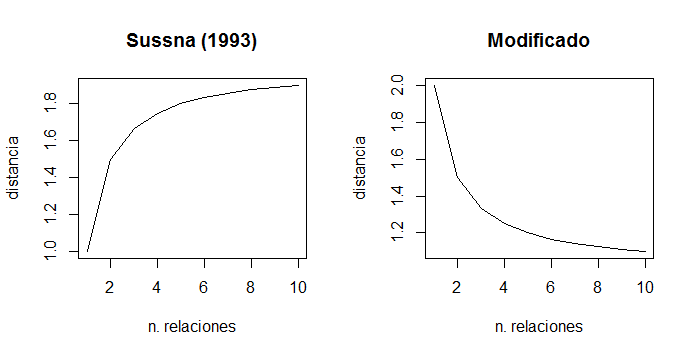
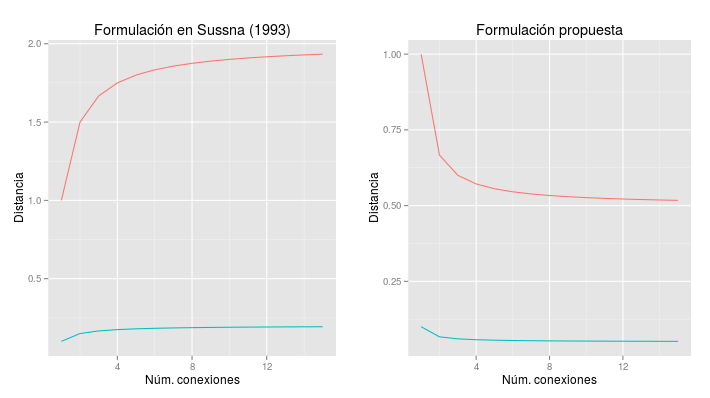
planteando modelo

diff --git a/doc/conf.py b/doc/conf.py
@@ -49,7 +49,7 @@ source_suffix = '.rst'
 
 # The master toctree document.
 master_doc = 'index'
-latex_appendices = ['appendix-data']
+#latex_appendices = ['appendix-data']
 
 # General information about the project.
 project = u'Medida de distancia en grafos UNL'

diff --git a/doc/4.model/i.recursos.rst b/doc/4.model/i.recursos.rst
@@ -3,19 +3,30 @@
 Recursos utilizados
 ===================
 El modelo propuesto se apoya en varios recursos, algoritmos y librerías desarrollados por
-otras personas, nosotros las combinamos y añadimos nuestra pequeña aportación para poder
-calcular la medida de similaridad.
+otras personas, nosotros las combinamos y añadimos nuestra aportación para poder
+calcular la medida que nos interesa.
 
 El autor ha podido utilizar algunos de los recursos tal cual estaban disponibles, pero en otros
 ha colaborado en su desarrollo o transcripción al lenguaje de programación seleccionado, se
 indicará en cada caso las contribuciones realizadas.
 
+
 WordNet 3.1
 -----------
+En la exposición del estado del arte hemos descrito sucintamente la base de datos WordNet y
+sus características (ver :num:`sección #wordnet`), no lo repetiremos aquí. Para este
+trabajo hemos utilizado el diccionario correspondiente a la versión 3.1.
 
 
 SemCor
 ------
+El corpus SemCor es el único recurso etiquetado con WordNet que hemos encontrado; su 
+utilización es imprescindible para poder hacer uso de medidas de distancia que tienen
+en cuenta el contenido de información
+(ver :num:`sección #redes-conceptos-contenido-informacion`). Sin embargo no hemos
+considerado cómo de representativo es este corpus para los el dominio de información
+en el que vamos a experimentar, los resultados de algunas medidas de distancia pueden
+verse profundamente afectados por esta circunstancia.
 
 
 WordNet-blast
@@ -45,14 +56,17 @@ WordNet. Nosotros hemos implementado las siguientes utilizando el lenguaje C++:
  * Lin (1998) :cite:`Lin1998`.
  * Resnik (1995) :cite:`Resnik1995`.
  
- * Sussna (1993) :cite:`Sussna1993`: en la :num:`sección #redes-conceptos-estructura` mostramos la formulación
-   que aparece en la bibliografía para el cálculo del peso de las conexiones entre los 
-   conceptos. Según Sussna este peso, que representa la distancia semántica, debe ser menor
-   cuanto mayor sea el número de conexiones del mismo tipo que parten de cada nodo; sin embargo
-   la formulación proporcionada no se comporta según lo pretendido.
+ * Sussna (1993) :cite:`Sussna1993`: en la :num:`sección #redes-conceptos-estructura
+   mostramos la formulación que aparece en la bibliografía para el cálculo del peso
+   de las conexiones entre los conceptos.
+   Según Sussna, este peso, que representa la distancia semántica, debe ser menor
+   cuanto mayor sea el número de conexiones del mismo tipo que parten de cada nodo; a pesar
+   de que en el texto del artículo de 1993 se expresa claramente que *"the two inverse
+   weights for an edge are averaged"* tanto en la formulación presente en dicho artículo
+   como en la literatura posterior no se tiene en cuenta este punto.
    
-   En nuestro modelo hemos implementado el comportamiento que creemos que debería ser el
-   correcto [#]_: a medida que el número de relaciones aumenta, la distancia semántica se 
+   En nuestro modelo hemos implementado la formulación que debería ser la
+   correcta [#]_: a medida que el número de relaciones aumenta, la distancia semántica se 
    hace más pequeña (ver :num:`figura #fig-sussna-fail`).
    
  * Wu y Palmer :cite:`Wu1994`.
@@ -63,9 +77,11 @@ WordNet. Nosotros hemos implementado las siguientes utilizando el lenguaje C++:
 .. figure:: ../img/sussnafail.png
    :name: fig-sussna-fail
 
-   Variación de la distancia asociada a una conexión en función del número relaciones entre los
-   elementos (mismo número en cada sentido). A la izquierda los resultados según la formulación de
-   Sussna, a la derecha los resultados según la modificación propuesta.
+   Variación de la distancia asociada a una conexión en función del número relaciones
+   entre los elementos. A la izquierda los resultados según la formulación de
+   Sussna, a la derecha los resultados según la modificación propuesta. La línea roja
+   muestra la variación de la distancia cuando el concepto está en el primer nivel de
+   profundidad de la jerarquía y la azul cuando está a una profundidad de 10.
    
  
 Todas estas medidas pueden ser intercambiadas en nuestro modelo obteniéndose diferentes valores
@@ -75,7 +91,7 @@ verificar cuál es la más adecuada para nuestro algoritmo.
 Al programar todas las medidas de distancia anteriores se han tenido en cuenta los siguientes
 puntos:
 
- * Todas utilizan la jerarquía de WordNet 3.1 construida con ```wordnet-blast``` haciendo uso
+ * Todas utilizan la jerarquía de WordNet 3.1 construida con ``wordnet-blast`` haciendo uso
    únicamente de las relaciones de hiponimia/hiperonima.
 
  * A las medidas basadas en el contenido de información que necesitaban de un *corpus* se les
@@ -89,7 +105,7 @@ puntos:
 Distancia y jerarquía entre relaciones UNL
 ------------------------------------------
 En la bibliografía no hemos encontrado ningún documento acerca de la distancia semántica entre
-relaciones UNL, así es que tenemos que proponer una. Para ello planteamos un modelo muy simple
+relaciones UNL, por lo que debemos proponer una. Para ello planteamos un modelo muy simple
 basado en la jerarquía de relaciones que aparece en UNLWeb [#]_.
 
 .. [#] UNL Wiki. Universal Relations. http://www.unlweb.net/wiki/Universal_Relations 
@@ -97,107 +113,66 @@ basado en la jerarquía de relaciones que aparece en UNLWeb [#]_.
    
 Proponemos un modelo según el cual dos relaciones son iguales si pertenecen a la misma
 tipología de primer nivel (agt, and, aoj,...) y distintas en caso contrario (ver
-:num:`figura #fig-unl-relations`).
+:num:`tabla #table-unl-relations`), así, sean dos relaciones :math:`r_1` y :math:`r_2`,
+se verifican las siguientes relaciones:
 
-.. _fig-unl-relations:
-.. graphviz::
-   :caption: Jerarquía de relaciones UNL propuesta en UNLWeb.
+ * :math:`d(r_1, r_2) = 0 \iff r_1 \equiv r_2`
+ * :math:`d(r_1, r_2) = 0.2` si :math:`r_1` y :math:`r_2` tienen un padre común.
+ * :math:`d(r_1, r_2) = 0.8` en cualquier otro caso.
+ 
+Como se puede observar, la máxima distancia entre dos relaciones es ``0.8``, se
+considera así que la mera existencia de una relación entre dos mismos conceptos
+indica un grado mínimo de similaridad.
 
-   digraph foo {
-        rankdir=LR
-        node [shape=box]
-        
-        r[label="rel\n[relation]"]
-        
-        n01[label="agt\n[agent]"]
-        n02[label="and\n[conjunction]"]
-        n03[label="aoj\n[object of an attribute]"]
-            n03_m01[label="ant\n[antyonym, different form]"]
-            n03_m02[label="equ\n[synonym, equal to]"]
-            n03_m03[label="fld\n[field]"]
-            n03_m04[label="icl\n[hyponym, a kind of]"]
-            n03_m05[label="iof\n[example, instance of]"]
-            n03_m06[label="pof\n[meronym, part of]"]
-            
-        n04[label="ben\n[beneficiary]"]
-        n05[label="cnt\n[content or theme]"]
-        n06[label="con\n[condition]"]
-        n07[label="exp\n[experiencer]"]
-        n08[label="mod\n[modifier]"]
-            n08_m01[label="mat\n[material]"]
-            n08_m02[label="nam\n[name]"]
-            n08_m03[label="pos\n[possessor]"]
-            n08_m04[label="qua\n[quantifier]"]
+.. _table-unl-relations:
+.. table:: Jerarquía de relaciones UNL según UNLWeb.
+   :class: longtable
+   
+   +------------------------------------------------------------------------+
+   | | **agt**: agent                                                       |
+   | | **and**: conjuntion                                                  |
+   | | **aoj**: object of an attribute                                      |
+   | |   **ant**: antonym, different from                                   |
+   | |   **equ**: synonym, equal to                                         |
+   | |   **fld**: field                                                     |
+   | |   **icl**: hyponym, a kind of                                        |
+   | |   **iof**: example, instance of                                      |
+   | |   **pof**: meronym, part of                                          |
+   | | **ben**: beneficiary                                                 |
+   | | **cnt**: content or theme                                            |
+   | | **con**: condition                                                   |
+   | | **exp**: experiencer                                                 |
+   | | **mod**: modifier                                                    |
+   | |   **mat**: material                                                  |
+   | |   **nam**: name                                                      |
+   | |   **pos**: possessor                                                 |
+   | |   **qua**: quantifier                                                |
+   | | **obj**: patient                                                     |
+   | |   **opl**: objective place                                           |
+   | |   **res**: result                                                    |
+   | | **or**: disjunction                                                  |
+   | | **per**: proportion, rate, distribution or basis for a comparison    |
+   | |   **bas**: basis for a comparison                                    |
+   | | **plc**: location: physical or logical                               |
+   | |   **gol**: final place or state, destination                         |
+   | |   **lpl**: logical place, scene                                      |
+   | |   **src**: initial place or state, origin                            |
+   | |   **via**: intermediate place, path                                  |
+   | | **ptn**: partner                                                     |
+   +------------------------------------------------------------------------+
+   | | **tim**: time                                                        |
+   | |   **tmf**: initial time                                              |
+   | |   **tmt**: final time                                                |
+   | |   **dur**: duration                                                  |
+   | |     **coo**: co-occurrence                                           |
+   | | **man**: manner                                                      |
+   | |   **ins**: instrument or method                                      |
+   | |     **met**: method                                                  |
+   | |   **pur**: purpose                                                   |
+   | | **rsn**: reason                                                      |
+   | | **seq**: consequence                                                 |
+   +------------------------------------------------------------------------+
 
-        n09[label="obj\n[patient]"]
-            n09_m01[label="opl\n[objective place]"]
-            n09_m02[label="res\n[result]"]
-            
-        n10[label="or\n[disjunction]"]
-        n11[label="per\n[proportion, rate, distribution\nor basis for a comparison]"]
-            n11_m01[label="bas\n[basis for a comparison]"]
-
-        n12[label="plc\n[location: physical or logical]"]
-            n12_m01[label="gol\n[final place or state, destination]"]
-            n12_m02[label="lpl\n[logical place, scene]"]
-            n12_m03[label="src\n[initial place or state, origin]"]
-            n12_m04[label="via\n[intermediate place, path]"]
-
-        n13[label="ptn\n[partner]"]
-        n14[label="tim\n[time]"]
-            n14_m01[label="tmf\n[initial time]"]
-            n14_m02[label="tmt\n[final time]"]
-            n14_m03[label="dur\n[duration]"]
-                n14_m03_l01[label="coo\n[co-occurrence]"]
-        
-        n15[label="man\n[manner]"]
-            n15_m01[label="ins\n[instrument or method]"]
-                n15_m01_l01[label="met\n[method]"]
-            n15_m02[label="pur\n[purpose]"]
-
-        n16[label="rsn\n[reason]"]
-        n17[label="seq\n[consequence]"]
-        
-        r -> n01
-        r -> n02
-        r -> n03
-            n03 -> n03_m01
-            n03 -> n03_m02
-            n03 -> n03_m03
-            n03 -> n03_m04
-            n03 -> n03_m05
-            n03 -> n03_m06
-        r -> n04
-        r -> n05
-        r -> n06
-        r -> n07
-        r -> n08
-            n08 -> n08_m01
-            n08 -> n08_m02
-            n08 -> n08_m03
-            n08 -> n08_m04
-        r -> n09
-            n09 -> n09_m01
-            n09 -> n09_m02
-        r -> n10
-        r -> n11
-            n11 -> n11_m01
-        r -> n12
-            n12 -> n12_m01
-            n12 -> n12_m02
-            n12 -> n12_m03
-            n12 -> n12_m04
-        r -> n13
-        r -> n14
-            n14 -> n14_m01
-            n14 -> n14_m02
-            n14 -> n14_m03
-                n14_m03 -> n14_m03_l01
-        r -> n15
-            n15 -> n15_m01
-                n15_m01 -> n15_m01_l01
-            n15 -> n15_m02
-   }
 
 
 Algoritmo de McGregor

diff --git a/doc/4.model/index.rst b/doc/4.model/index.rst
@@ -7,28 +7,31 @@
 Propuesta de modelo
 ===================
 Ante la carencia de un modelo que permita comparar grafos UNL y cuyo algoritmo estuviera
-claramente expuesto, se ha decidido crear un modelo desde cero utilizando algunas ideas
+claramente expuesto, se ha decidido crear un modelo nuevo utilizando algunas ideas
 vistas durante la revisión del estado del arte e incorporando la posibilidad de indicar un
-umbral de flexibilidad en la comparación entre conceptos.
+umbral de flexibilidad en la comparación entre conceptos, algo que consideramos
+imprescindible en este campo.
 
 Ante la imposibilidad de encontrar un recurso tan imprescindible como la Ontología UNL,
 el trabajo se ha desarrollado utilizando WordNet, por lo tanto no podemos hablar estrictamente
-de distancia entre grafos UNL puesto que estamos sustituyendo las UWs por los *synsets*. Esta
-sustitución, sin embargo, no supone ninguna pérdida de generalidad puesto que la metodología
-utilizada puede ser aplicada de la misma forma en cualquier jerarquía de conceptos con
-relaciones de hiponimia.
+de distancia entre grafos UNL puesto que estamos sustituyendo las UWs por los *synsets*
+correspondientes.
+Esta sustitución, sin embargo, no supone ninguna pérdida de generalidad puesto que la
+metodología utilizada puede ser aplicada de la misma forma en cualquier jerarquía de
+conceptos con relaciones de hiponimia/hiperonimia.
 
 El modelo propuesto satisface los siguientes objetivos:
 
- * Ofrecer una medida de similaridad entre grafos conceptuales cuyo valor sea absoluto en una escala
-   en el intervalo :math:`[0,1]`, donde :math:`0` indica mínima similaridad y el valor :math:`1`
-   que son idénticos. No se plantea el estudio sobre si esta medida cumple las propiedades de
-   una distancia y por lo tanto podría ser tratada como tal, así que preferimos hablar de
-   similaridad.
+ * Ofrecer una medida de similaridad entre grafos conceptuales cuyo valor sea absoluto
+   en una escala en el intervalo :math:`[0,1]`, donde :math:`0` indica mínima similaridad
+   y el valor :math:`1` que se trata de grafos idénticos. No se plantea el estudio sobre
+   si esta medida cumple las propiedades de una distancia y por lo tanto podría ser
+   tratada como tal, así que preferimos hablar de similaridad.
    
  * Maximizar la similaridad calculada entre grafos: el algoritmo debe buscar la combinación que
-   ofrezca la mínima distancia entre los grafos a comparar, el cálculo propuesto realiza una
-   búsqueda exhaustiva por lo que está garantizado que encuentra el máximo global [#]_.
+   ofrezca la mínima distancia (máxima similaridad) entre los grafos a comparar, el cálculo
+   propuesto realiza una búsqueda exhaustiva por lo que está garantizado que
+   encuentra el máximo global [#]_.
  
 .. TODO: Asumimos aquí la idea optimista de que la similaridad que intentamos capturar es
    la máxima entre los grafos. En algunos casos puede ser un planteamiento equivocado.
@@ -41,8 +44,9 @@ El modelo propuesto satisface los siguientes objetivos:
  * Realizar la comparación con un parámetro configurable que permita modificar el umbral para
    considerar dos conceptos o relaciones como iguales en la construcción del grafo común.
  
-.. [#] Como se expondrá más adelante esta búsqueda exhaustiva resulta en muchos casos ineficiente
-   en términos de tiempo de computación.
+.. [#] Como se expondrá más adelante esta búsqueda exhaustiva resulta en muchos
+   casos ineficiente en términos de tiempo de computación y se recomendará la utilización
+   de heurísticas, pero no se ha utilizado ninguna en este trabajo.
    
 Para poder alcanzar estos objetivos nos hemos apoyado en los recursos que se exponen en el
 apartado siguiente. Una vez expuestos estos recursos se describe el modelo propuesto.

diff --git a/doc/1.state-of-the-art/ii.medidas-distancia.rst b/doc/1.state-of-the-art/ii.medidas-distancia.rst
@@ -296,17 +296,7 @@ función del número de relaciones del mismo tipo que parten de él:
 .. math::
     :label: sussna
     
-    wt(c_1 \rightarrow_r) = min_r + \frac{max_r - min_r}{edges_r (c_1)}
-
-
-.. warning:: Aquí he modificado la relación original porque creo que verdaderamente hay un error tanto
-   en el artículo original como en las referencias que apuntan a él. En origen el peso de los arcos
-   está expresado como :math:`max_r - \frac{max_r - min_r}{edges_r (c_1)}`, así ocurre que el peso 
-   es mayor cuanto mayor sea el número de arcos lo que es contrario a la intuición de que a
-   mayor densidad de la red menor es la distancia entre conceptos.
-   
-   ¿Cómo y dónde planteo esta duda?
-
+    wt(c_1 \rightarrow_r) = max_r - \frac{max_r - min_r}{edges_r (c_1)}
 
 La distancia entre dos conceptos adyacentes :math:`c_1` y :math:`c_2` es la media
 de los pesos de la relación en ambas direcciones ponderada por la profundidad de los nodos.
@@ -314,6 +304,13 @@ de los pesos de la relación en ambas direcciones ponderada por la profundidad d
 .. math::
 
     dist_s(c_1, c_2) = \frac{wt(c_1 \rightarrow_r) + wt(c_2 \rightarrow_{r'}) }{2 \cdot max\{depth(c_1), depth(c_2)\}}
+    
+.. warning:: En el artículo de Sussna se dice que en esta última ecuació los pesos
+   deben ser invertidos, pero tanto en la formulación del artículo como en la literatura
+   posterior, no se tiene en cuenta y el resultado NO ES EL ESPERADO.
+   
+   Hablo de esto más adelante, ¿debería tratarlo aquí?
+   
 
 La distancia semántica entre dos nodos cualesquiera de la red se calcularía como la suma de
 distancias entre cada par de nodos adyacentes a lo largo del camino más corto que los une.
@@ -353,6 +350,7 @@ análisis que realizan en el artículo concluyen que los parámetros óptimos en
 anterior son :math:`\alpha = 0.2` y :math:`\beta = 0.6`.
 
 
+.. redes-conceptos-contenido-informacion_
 Basadas en el contenido de información
 ++++++++++++++++++++++++++++++++++++++
 Una de las formas de evaluar la densidad de la red de conceptos es considerar el contenido de
